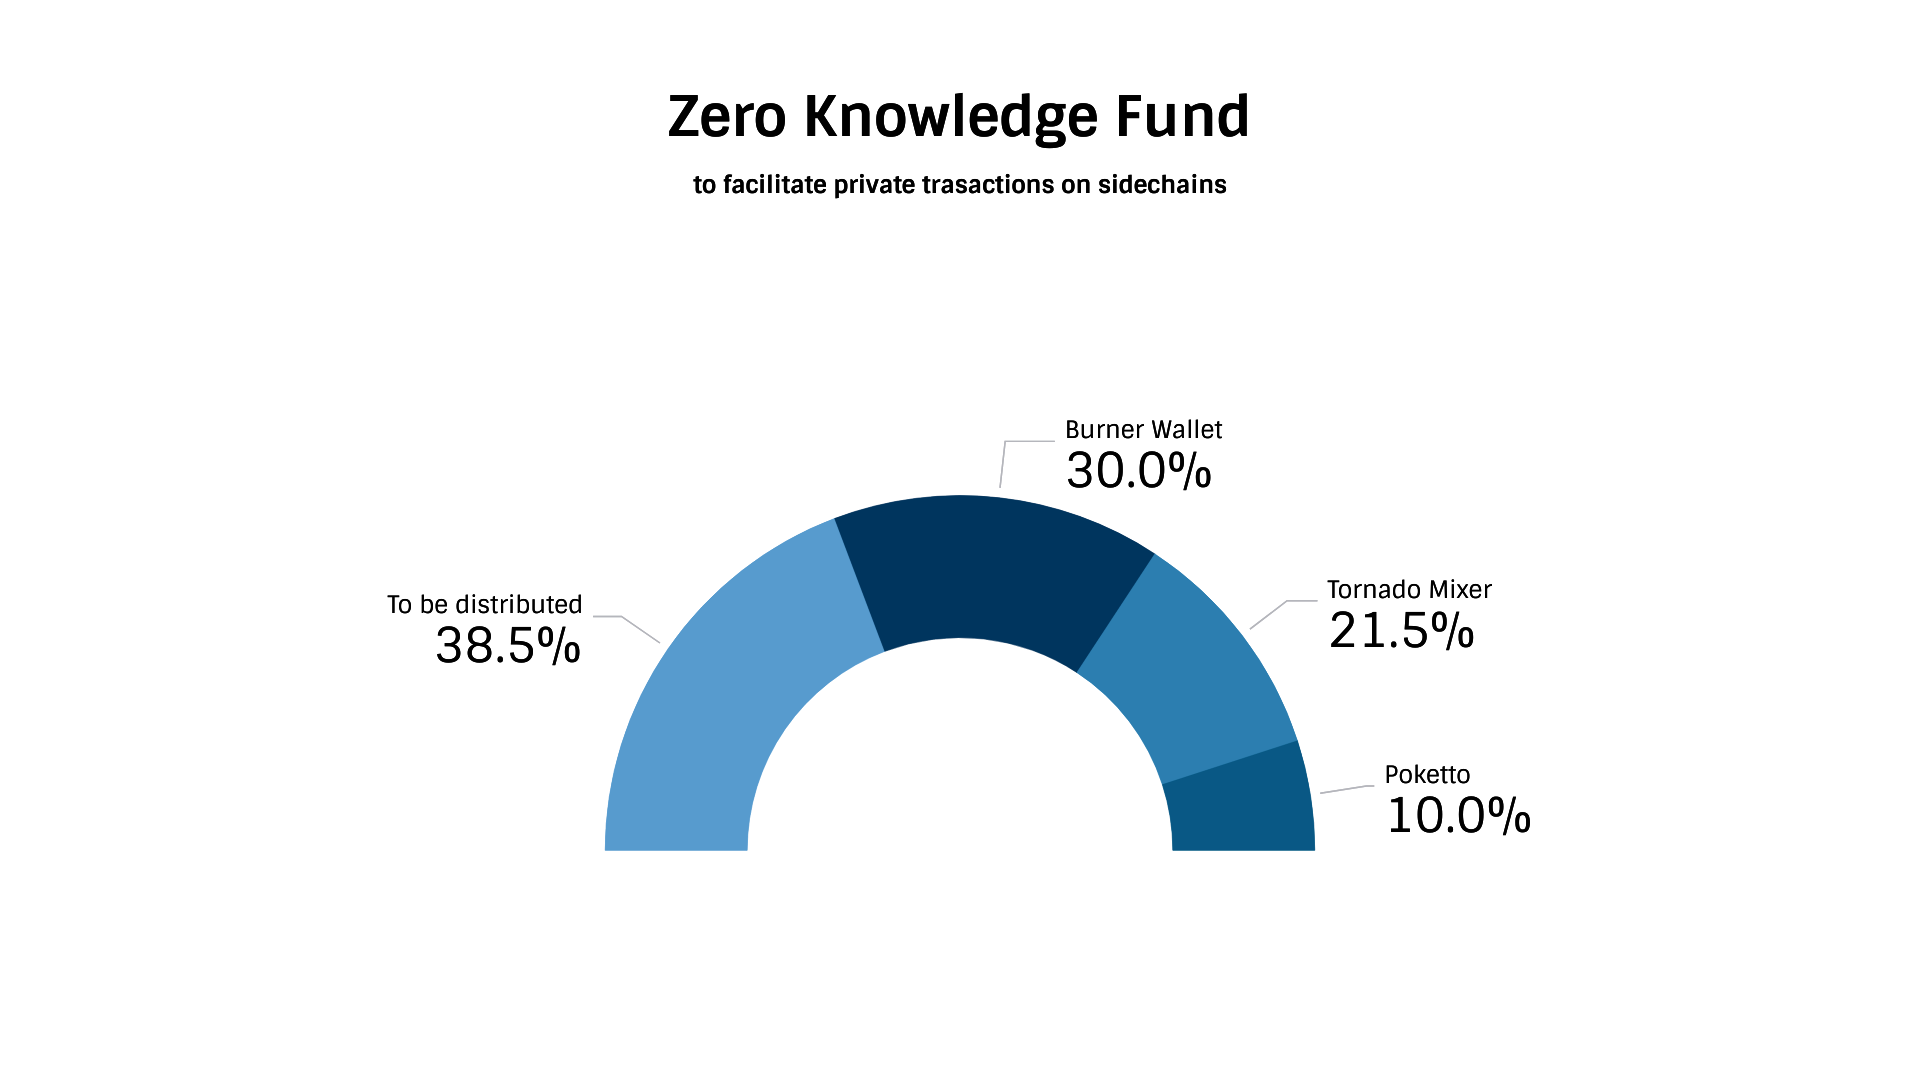
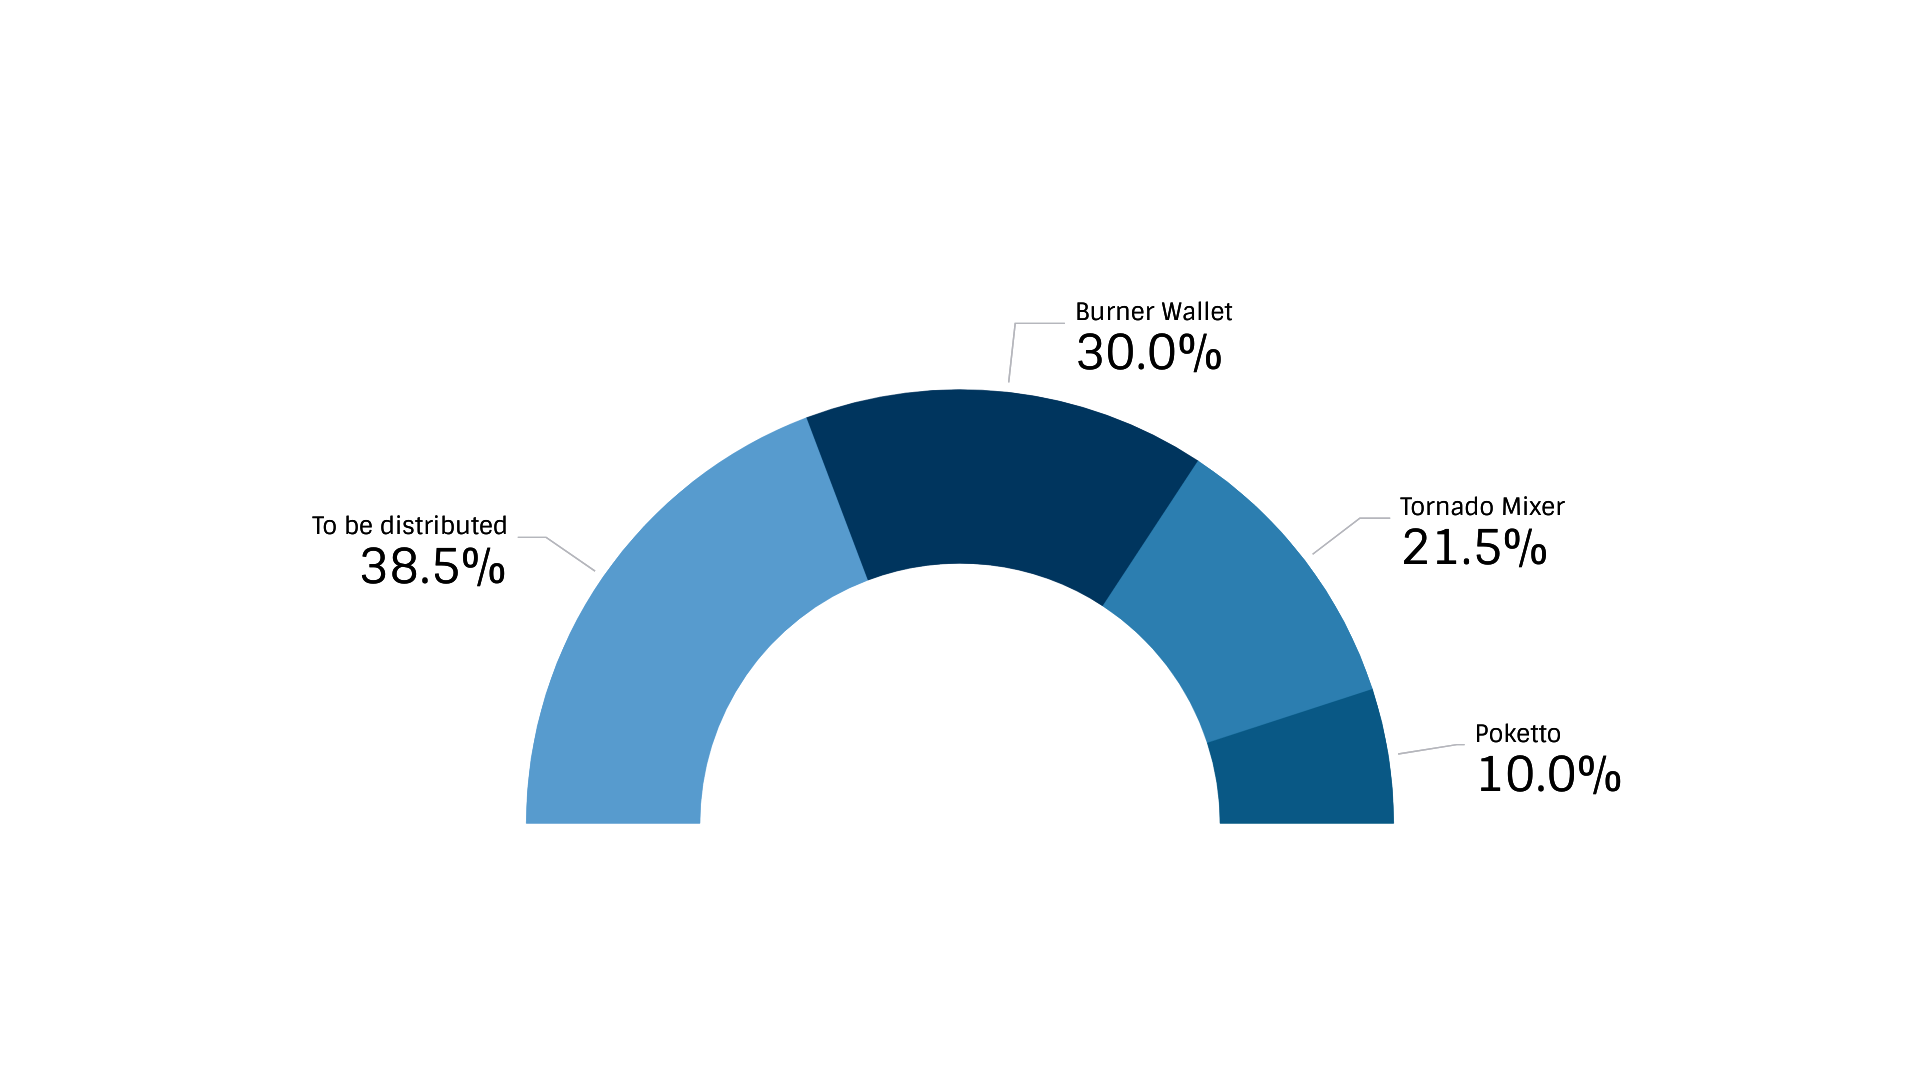
GitBook: [master] one page and 2 assets modified

Changed region(s): [[0.1875, 0.275, 0.8438, 0.7944], [0.3438, 0.0917, 0.6562, 0.1833]]

diff --git a/for-developers/grants.md b/for-developers/grants.md
@@ -8,8 +8,6 @@ description: >-
 
 ## ZK \(Zero Knowledge\) Privacy Fund
 
-![](../.gitbook/assets/zero-knowledge-fund.png)
-
 A grant to fund ZK applications on xDai and other Layer 2 sidechains. ZK proofs offer the ability for users to make private transactions.
 
 Why implement on xDai? Since xDai is a stable token, a primary use of the chain is peer-to-peer payments. Just as with cash, privacy should be an option when exchanging money or paying vendors for services. ZK protocols allow users to use xDai freely and anonymously.
@@ -19,6 +17,8 @@ To date, we have already distributed:
 * 30k Dai to Austin Griffith to implement ZK transactions in Burner Wallet
 * 10k Dai to Poketto team to implement ZK transactions in Poketto Cash wallet
 * 1.55mm POA \(~22k Dai\) to Tornado Cash team to deploy Tornado on xDai Chain
+
+![ZK Privacy Fund distribution](../.gitbook/assets/zero-knowledge-fund.png)
 
 Applications are ongoing, you can learn more and apply here:  [https://forum.poa.network/t/introducing-the-poa-zero-knowledge-fund/2698](https://forum.poa.network/t/introducing-the-poa-zero-knowledge-fund/2698)
 
